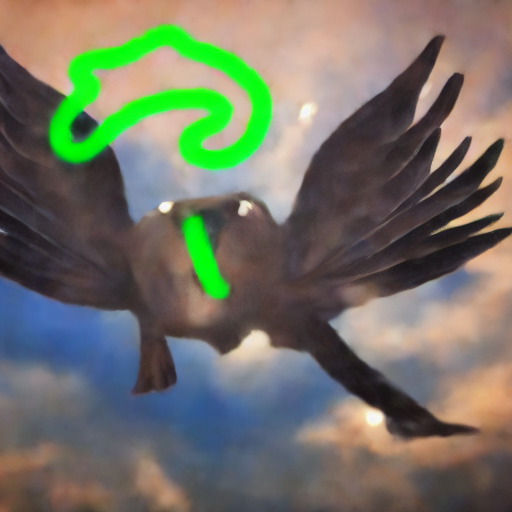
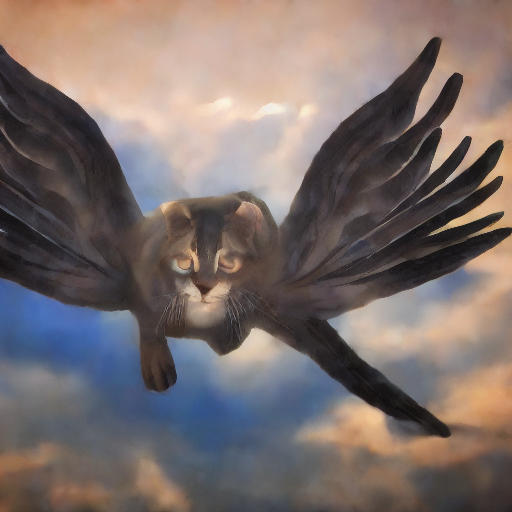
update

diff --git a/kevin-test1/3_latent_annotation.py b/kevin-test1/3_latent_annotation.py
@@ -34,19 +34,16 @@ def denoise_latent(noisy_latent, scheduler, timesteps, start_timestep_index, den
 start_timestep_position = 50  # Starting position in the timeline (where input image is assumed to be)
 denoise_steps = 50           # Number of steps to denoise forward
 
-# Load and preprocess input image
-image_path = 'renoised_step_back_50.png'
-image = Image.open(image_path).convert('RGB')
-
+# Load and preprocess input images
+image_paths = ['renoised_step_back_50.png', 'anot1.png']
 preprocess = transforms.Compose([
     transforms.Resize(512),
     transforms.CenterCrop(512),
     transforms.ToTensor(),
     transforms.Normalize([0.5, 0.5, 0.5], [0.5, 0.5, 0.5])
 ])
-image_tensor = preprocess(image).unsqueeze(0)
 
-# Setup device and load pipeline
+# Encode images into latent space
 device = 'cuda' if torch.cuda.is_available() else 'cpu'
 dtype = torch.float16 if device == 'cuda' else torch.float32
 
@@ -55,7 +52,6 @@ pipeline = StableDiffusionPipeline.from_pretrained(
     torch_dtype=dtype
 ).to(device)
 
-# Configure scheduler and timesteps
 scheduler = DDIMScheduler.from_config(pipeline.scheduler.config)
 pipeline.scheduler = scheduler
 
@@ -63,25 +59,40 @@ num_inference_steps = 100
 scheduler.set_timesteps(num_inference_steps)
 timesteps = scheduler.timesteps
 
-# Set starting point based on the `start_timestep_position`
 start_timestep_index = min(len(timesteps) - 1, start_timestep_position)
 
-# Encode image to latent space
-with torch.no_grad():
-    image_tensor = image_tensor.to(device, dtype=pipeline.unet.dtype)
-    latent = pipeline.vae.encode(image_tensor).latent_dist.sample() * 0.18215
+latents = []
+for image_path in image_paths:
+    image = Image.open(image_path).convert('RGB')
+    image_tensor = preprocess(image).unsqueeze(0).to(device, dtype=pipeline.unet.dtype)
+    with torch.no_grad():
+        latent = pipeline.vae.encode(image_tensor).latent_dist.sample() * 0.18215
+    latents.append(latent)
 
-# Generate text embeddings (optional) if you want to condition on text
-prompt = "A photorealistic cat with graceful bird wings, soaring high in a bright blue sky filled with soft, white clouds, with sunlight illuminating the wings and casting a warm glow."  # empty prompt
+
+###pick one method of merging
+# 1. Merge the two latents by averaging
+#merged_latent = (latents[0] + latents[1]) / 2
+
+# 2. weighted blending
+alpha = 0.7  # Weight for primary latent
+beta = 1 - alpha  # Weight for scribble overlay
+merged_latent = alpha * latents[0] + beta * latents[1]
+
+
+
+
+# Generate text embeddings for conditioning
+prompt = "A photorealistic cat with graceful bird wings, soaring high in a bright blue sky filled with soft, white clouds, with sunlight illuminating the wings and casting a warm glow."
 text_input = pipeline.tokenizer(prompt, return_tensors="pt").to(device)
 text_embeddings = pipeline.text_encoder(text_input.input_ids)[0]
 
-# Denoise the latent forward by `denoise_steps`
-denoised_latent = denoise_latent(latent, scheduler, timesteps, start_timestep_index, denoise_steps, text_embeddings)
+# Denoise the merged latent forward by `denoise_steps`
+denoised_latent = denoise_latent(merged_latent, scheduler, timesteps, start_timestep_index, denoise_steps, text_embeddings)
 
 # Save the final denoised image after the forward steps
-denoised_image = save_latent_as_image(denoised_latent, pipeline, f'betterprompt_denoised_step_forward_{denoise_steps}.png')
+denoised_image = save_latent_as_image(denoised_latent, pipeline, f'merged_denoised_step_forward_{denoise_steps}.png')
 
 # Output saved file summary
 print("Saved image:")
-print(f"- denoised_step_forward_{denoise_steps}.png: Denoised image after {denoise_steps} forward steps from timestep {start_timestep_position}")
+print(f"- merged_denoised_step_forward_{denoise_steps}.png: Denoised image after {denoise_steps} forward steps from timestep {start_timestep_position}")

diff --git a/kevin-test1/2_pndmScheduler.py b/kevin-test1/2_pndmScheduler.py
@@ -1,5 +1,5 @@
 import torch
-from diffusers import StableDiffusionPipeline, DDIMScheduler
+from diffusers import StableDiffusionPipeline, PNDMScheduler
 from torchvision import transforms
 from PIL import Image
 import numpy as np
@@ -32,7 +32,7 @@ def denoise_latent(noisy_latent, scheduler, timesteps, start_timestep_index, den
 
 # Adjustable parameters
 start_timestep_position = 50  # Starting position in the timeline (where input image is assumed to be)
-denoise_steps = 50           # Number of steps to denoise forward
+denoise_steps = 50          # Number of steps to denoise forward
 
 # Load and preprocess input image
 image_path = 'renoised_step_back_50.png'
@@ -56,7 +56,7 @@ pipeline = StableDiffusionPipeline.from_pretrained(
 ).to(device)
 
 # Configure scheduler and timesteps
-scheduler = DDIMScheduler.from_config(pipeline.scheduler.config)
+scheduler = PNDMScheduler.from_config(pipeline.scheduler.config)
 pipeline.scheduler = scheduler
 
 num_inference_steps = 100
@@ -72,7 +72,7 @@ with torch.no_grad():
     latent = pipeline.vae.encode(image_tensor).latent_dist.sample() * 0.18215
 
 # Generate text embeddings (optional) if you want to condition on text
-prompt = "A photorealistic cat with graceful bird wings, soaring high in a bright blue sky filled with soft, white clouds, with sunlight illuminating the wings and casting a warm glow."  # empty prompt
+prompt = "A cat with bird wings soaring in the clouds. Photorealstic."  # empty prompt
 text_input = pipeline.tokenizer(prompt, return_tensors="pt").to(device)
 text_embeddings = pipeline.text_encoder(text_input.input_ids)[0]
 
@@ -80,7 +80,7 @@ text_embeddings = pipeline.text_encoder(text_input.input_ids)[0]
 denoised_latent = denoise_latent(latent, scheduler, timesteps, start_timestep_index, denoise_steps, text_embeddings)
 
 # Save the final denoised image after the forward steps
-denoised_image = save_latent_as_image(denoised_latent, pipeline, f'betterprompt_denoised_step_forward_{denoise_steps}.png')
+denoised_image = save_latent_as_image(denoised_latent, pipeline, f'pndm_denoised_{denoise_steps}.png')
 
 # Output saved file summary
 print("Saved image:")
